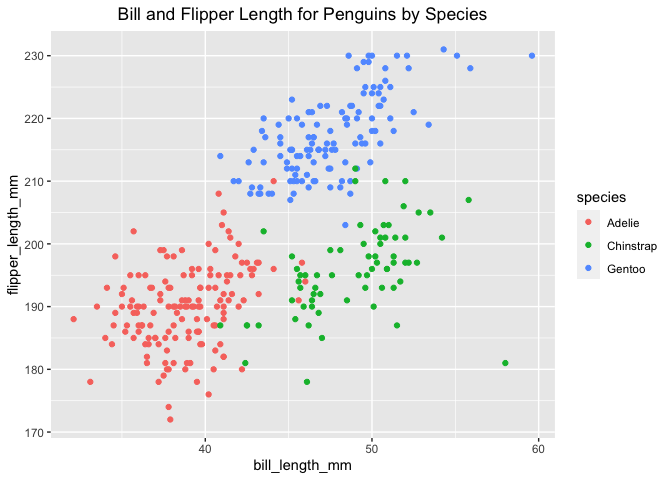
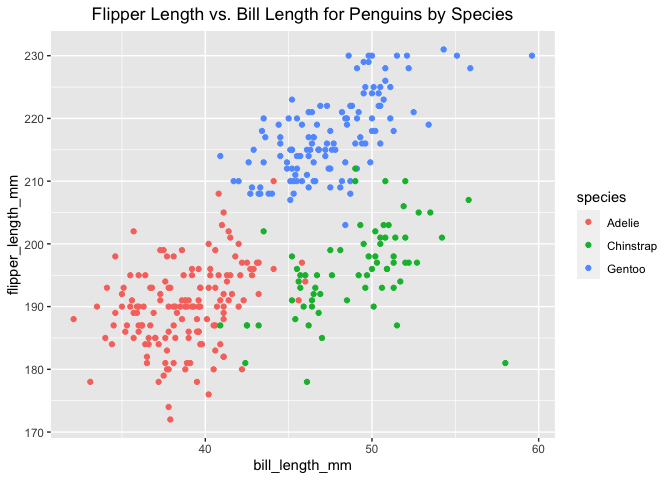
Changed title for ggtitle

Changed region(s): [[0.125, 0.0, 0.75, 0.0625]]

diff --git a/p8105_hw1_hlz2108.md b/p8105_hw1_hlz2108.md
@@ -46,7 +46,7 @@ Taking the mean of each variable in my data frame.
 mean(pull(prob1_df, samp))
 ```
 
-    ## [1] 0.1489463
+    ## [1] -0.1115698
 
 ``` r
 mean(pull(prob1_df, samp_gt_0))
@@ -88,8 +88,8 @@ as.numeric(pull(prob1_df, factor_vec))
 as.numeric((pull(prob1_df, samp_gt_0))) * pull(prob1_df, samp)
 ```
 
-    ##  [1] 0.0000000 0.9162847 0.0000000 0.0000000 0.4762634 0.0000000 0.0000000
-    ##  [8] 1.6445425 1.0465578 0.5517147
+    ##  [1] 0.00000000 1.03715036 0.05977659 0.00000000 1.35407313 0.13053507
+    ##  [7] 0.00000000 0.98470713 0.00000000 0.00000000
 
 ``` r
 as.factor((pull(prob1_df, samp_gt_0))) * pull(prob1_df, samp)
@@ -145,7 +145,7 @@ This code chunk below generates a scatter plot for bill length and
 flipper length, each color represents a different species.
 
 ``` r
-ggplot(penguins, aes (x = bill_length_mm, y = flipper_length_mm, color = species)) + geom_point() + ggtitle("Bill and Flipper Length for Penguins by Species") + theme(plot.title = element_text(hjust = 0.5))
+ggplot(penguins, aes (x = bill_length_mm, y = flipper_length_mm, color = species)) + geom_point() + ggtitle("Flipper Length vs. Bill Length for Penguins by Species") + theme(plot.title = element_text(hjust = 0.5))
 ```
 
     ## Warning: Removed 2 rows containing missing values (geom_point).
